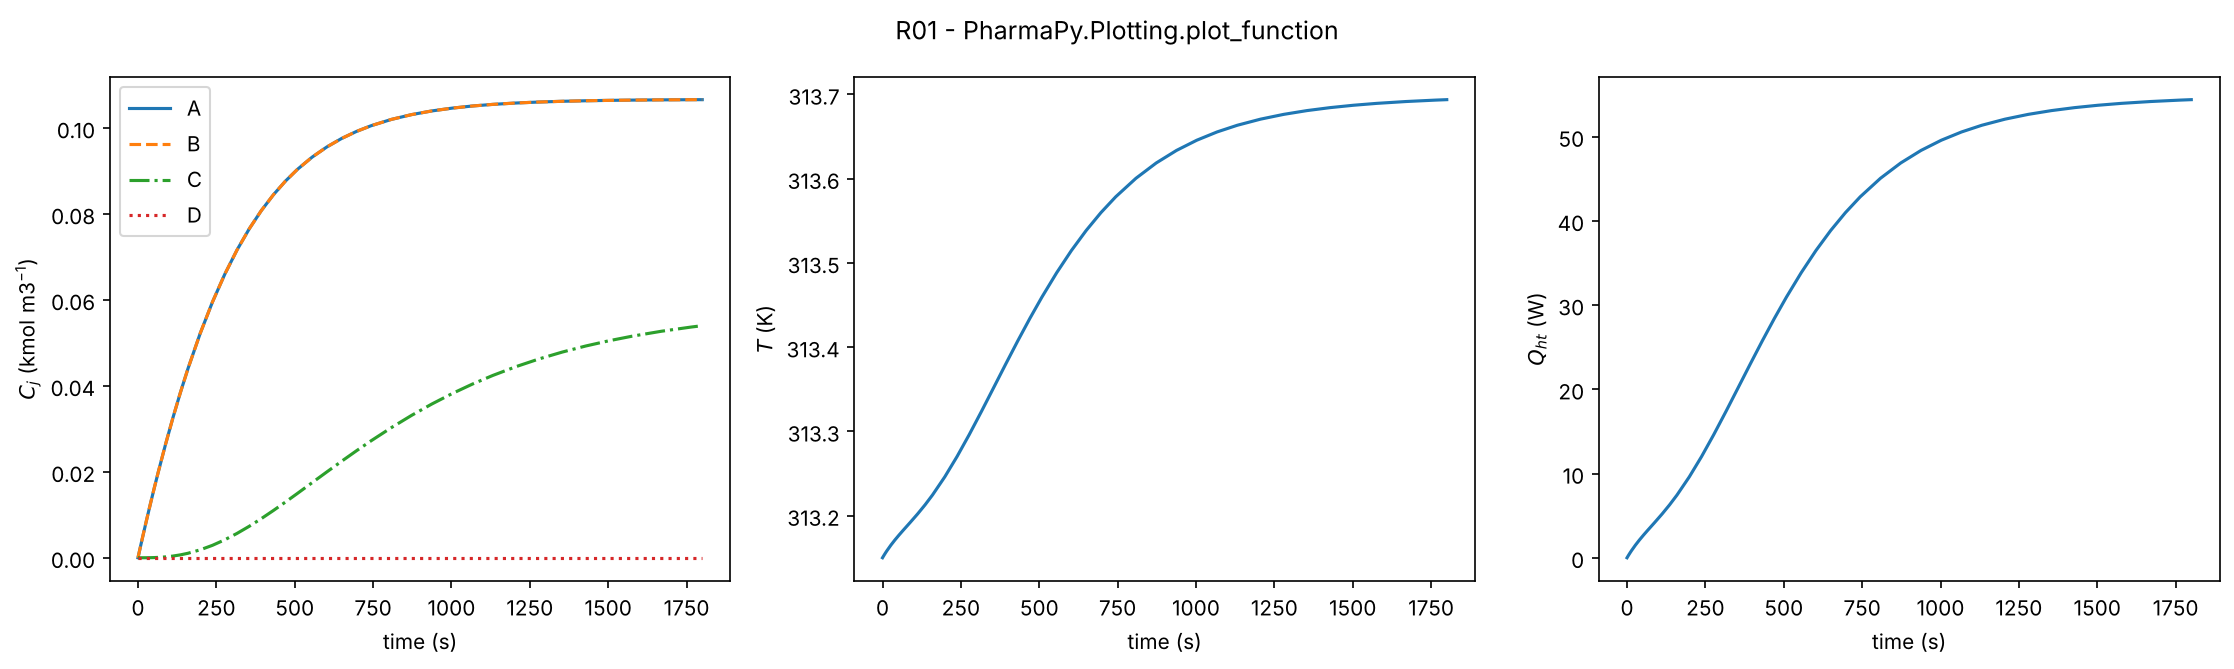
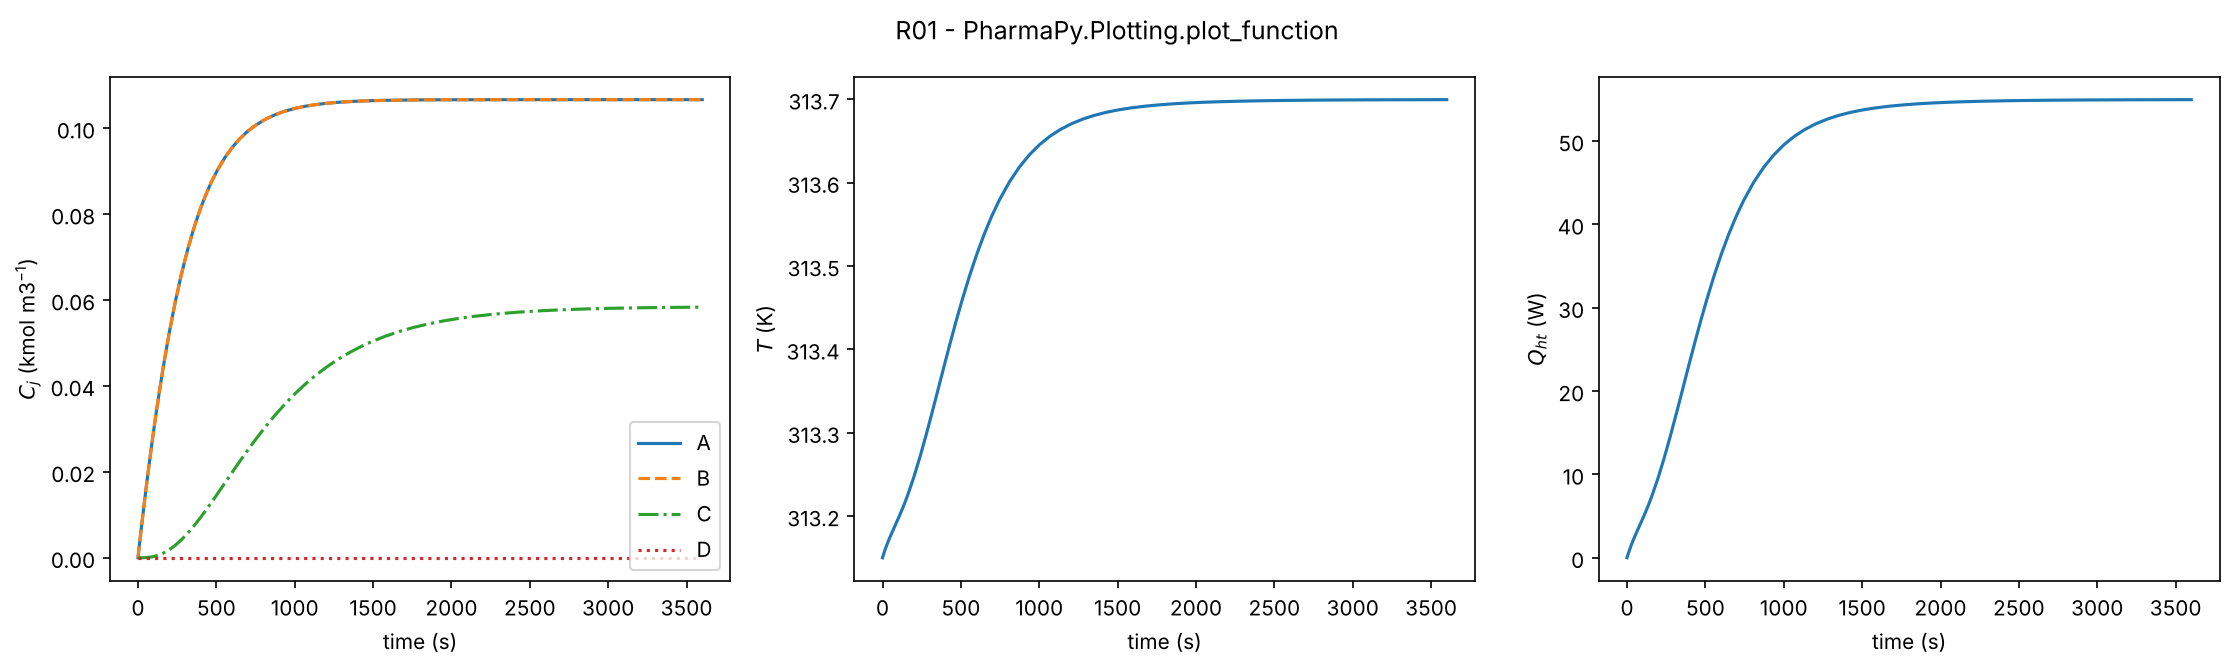
R01: add steady-state mass balance and heat-source plot from PharmaPy terms
- Replay the solved trajectory through the vessel's own material_balances
  and energy_balances (as find_output_states_from_replay does) and record
  the inlet, intraphase, outlet and net species terms plus every energy
  term PharmaPy computes, rather than re-deriving the balances.
- New figures: R01_mass_balance.png (per-feed in, generated, out,
  accumulated at the final time, with a steady-state check) and
  R01_heat_sources.png (reaction, jacket, feed terms and net vs time).
- Raise RUNTIME to 3600 s (7.2 residence times) so the run ends at steady
  state; warn if accumulation exceeds STEADY_STATE_TOL.

Claude-Session: https://claude.ai/code/session_01XVUqsoW5mnv1LanyNmE8qy

diff --git a/Project work/R01.py/R01.py b/Project work/R01.py/R01.py
@@ -26,6 +26,13 @@ Figures are written to ``results/`` next to this file:
     R01_profiles.png   Ca vs time, T vs time, Ca vs T
     R01_native.png     the same run through PharmaPy.Plotting.plot_function
     R01_settings.png   the settings and initial conditions used for the run
+    R01_mass_balance.png  inlet vs outlet species balance at the final time
+    R01_heat_sources.png  energy-balance terms (heat sources) vs time
+
+Both balance figures read PharmaPy's own balance terms rather than
+re-deriving them: the solved trajectory is replayed through the vessel's
+``material_balances`` and ``energy_balances`` (the same calls the integrator
+makes), and each term is recorded as PharmaPy computed it.
 
 The compound database defaults to ``../compound_database.json``; set
 ``PHARMAPY_DATABASE`` to use another one.
@@ -77,11 +84,34 @@ COOLANT_MASS_FLOW = 0.1  # kg/s
 COOLANT_TEMPERATURE = 313.15  # K
 COOLANT_H_CONV = 1000.0  # W/m**2/K, jacket side
 
-RUNTIME = 1800.0  # s
+# 7.2 residence times: long enough that the end of the run is a steady
+# state (accumulation below STEADY_STATE_TOL of the throughput).
+RUNTIME = 3600.0  # s
+STEADY_STATE_TOL = 1.0e-2  # accumulation / inlet mass flow, per species
 
-# Validated categorical slots 1-3 (blue, orange, aqua).
-SERIES_COLORS = ("#2a78d6", "#eb6834", "#1baf7a")
+# Validated categorical slots 1-4 (blue, orange, aqua, yellow).
+SERIES_COLORS = ("#2a78d6", "#eb6834", "#1baf7a", "#eda100")
+TEXT_PRIMARY = "#0b0b0b"
 TEXT_MUTED = "#52514e"
+
+
+class BalanceRecordingReactor(ContinuousReactor):
+    """ContinuousReactor that keeps the energy-balance terms it computes.
+
+    ``MultiPhaseVessel.energy_balances`` collects every heat term into a
+    local ``contributions`` dict, sums it and returns only dT/dt. The
+    shaft-work hook is the last term it adds before summing, so copying the
+    dict there captures every term exactly as PharmaPy computed it. Nothing
+    about the balance itself changes.
+    """
+
+    def add_shaftwork_energy_terms(self, contributions, time,
+                                   completed_state):
+        super().add_shaftwork_energy_terms(contributions, time,
+                                           completed_state)
+        self.energy_contributions = {
+            name: float(value) for name, value in contributions.items()
+        }
 
 
 # ---------------------------------------------------------------- builders
@@ -127,12 +157,12 @@ def make_feed(
 
 def build_reactor(
     database_path: Path | str = DEFAULT_DATABASE_PATH,
-) -> ContinuousReactor:
+) -> BalanceRecordingReactor:
     """Build R01 with both feeds attached as separate inlets."""
     database_path = Path(database_path)
     species_names = database_species(database_path)
 
-    reactor = ContinuousReactor(
+    reactor = BalanceRecordingReactor(
         integrator=ScipyBackend(),
         h_conv=REACTOR_H_CONV,
         diam=REACTOR_DIAMETER,
@@ -172,6 +202,69 @@ def run_reactor(
     reactor = build_reactor(database_path)
     reactor.solve_unit(runtime=runtime, verbose=False)
     return reactor
+
+
+# ---------------------------------------------------------------- balances
+def replay_balances(reactor: BalanceRecordingReactor) -> SimpleNamespace:
+    """Re-evaluate PharmaPy's balances at every saved time point.
+
+    Mirrors ``MultiPhaseVessel.find_output_states_from_replay``: an
+    independent copy of the vessel is set to each accepted solver state and
+    asked for its balances through the same methods the integrator calls,
+    including the positivity limiter. Nothing here re-derives a balance; the
+    terms are read out of PharmaPy's contribution buffer and energy dict.
+
+    Returns
+    -------
+    SimpleNamespace
+        ``time`` [s]; ``feeds`` (time, feed, species) inlet mass flows [kg/s];
+        ``inlet``, ``generation``, ``outlet``, ``accumulation`` (time,
+        species) [kg/s], outlet positive; ``heat`` {term: array} [W].
+    """
+    pseudo = reactor.create_pseudo()
+    collection = reactor.solver_state_collection
+    result = reactor.result
+    history = {
+        key: np.asarray(getattr(result, collection.format_key(key)))
+        for key in collection.states
+    }
+
+    feeds, inlet, generation, outlet, accumulation, heat = ([] for _ in
+                                                            range(6))
+    for i, time in enumerate(np.asarray(result.time)):
+        state = {key: values[i] for key, values in history.items()}
+        completed = pseudo.complete_state(state, time)
+        pseudo.update_phases_from_state(completed)
+
+        rates, buffer = pseudo.material_balances(
+            time, completed, limiter_dt=pseudo.positivity_horizon)
+        pseudo.energy_balances(time, completed, buffer)
+
+        terms = buffer.contributions
+        feeds.append([np.array(transfer.species_flow, dtype=float)
+                      for transfer in buffer.aux[buffer.INLET]])
+        inlet.append(terms[buffer.INLET].copy())
+        generation.append(terms[buffer.INTRAPHASE].copy())
+        outlet.append(-terms[buffer.OUTLET])
+        accumulation.append(np.array(rates, dtype=float))
+        heat.append(pseudo.energy_contributions)
+
+    return SimpleNamespace(
+        time=np.asarray(result.time),
+        feeds=np.array(feeds),
+        inlet=np.array(inlet),
+        generation=np.array(generation),
+        outlet=np.array(outlet),
+        accumulation=np.array(accumulation),
+        heat={name: np.array([h[name] for h in heat]) for name in heat[0]},
+    )
+
+
+def steady_state_gap(balances: SimpleNamespace) -> float:
+    """Largest species accumulation at the final time, relative to the
+    total inlet mass flow."""
+    return float(np.abs(balances.accumulation[-1]).max()
+                 / balances.inlet[-1].sum())
 
 
 # ---------------------------------------------------------------- plotting
@@ -343,13 +436,123 @@ def plot_settings(reactor: ContinuousReactor):
     return fig
 
 
-def save_figures(reactor: ContinuousReactor, out_dir: Path = RESULTS_DIR):
-    """Draw all three figures, save them as PNGs and return them by name."""
+def plot_mass_balance(reactor: ContinuousReactor,
+                      balances: SimpleNamespace):
+    """Inlet vs outlet species balance at the final time, as a table."""
+    import matplotlib.pyplot as plt
+
+    to_g = 1.0e3  # kg/s -> g/s
+    feeds = balances.feeds[-1] * to_g
+    generation = balances.generation[-1] * to_g
+    outlet = balances.outlet[-1] * to_g
+    accumulation = balances.accumulation[-1] * to_g
+    feed_labels = ["Feed A", "Feed B"] + [
+        f"Feed {i + 1}" for i in range(2, len(feeds))]
+
+    def cell(value):
+        return "0" if abs(value) < 5e-7 else f"{value:.4f}"
+
+    columns = (["Species"] + [f"{name} in" for name in feed_labels[:len(feeds)]]
+               + ["Generated", "Out", "Accumulated"])
+    rows = []
+    for j, name in enumerate(reactor.name_species):
+        rows.append([name] + [cell(f[j]) for f in feeds]
+                    + [cell(generation[j]), cell(outlet[j]),
+                       cell(accumulation[j])])
+    rows.append(["Total"] + [cell(f.sum()) for f in feeds]
+                + [cell(generation.sum()), cell(outlet.sum()),
+                   cell(accumulation.sum())])
+
+    total_in = feeds.sum()
+    gap = steady_state_gap(balances)
+    status = ("steady state" if gap < STEADY_STATE_TOL
+              else "NOT yet at steady state")
+
+    fig, ax = plt.subplots(figsize=(10, 0.3 * len(rows) + 1.2))
+    ax.axis("off")
+    table = ax.table(cellText=rows, colLabels=columns, cellLoc="right",
+                     loc="center")
+    table.auto_set_font_size(False)
+    table.set_fontsize(10)
+    table.scale(1, 1.5)
+    for (row, col), cell_obj in table.get_celld().items():
+        cell_obj.set_edgecolor("#e5e4e0")
+        if col == 0:
+            cell_obj.set_text_props(ha="left")
+        if row == 0 or row == len(rows):
+            cell_obj.set_text_props(weight="bold")
+        if row == 0:
+            cell_obj.set_facecolor("#f0efec")
+
+    ax.set_title(
+        f"R01 mass balance at t = {balances.time[-1]:g} s  [g/s]\n"
+        f"in {total_in:.4f} g/s, out {outlet.sum():.4f} g/s; "
+        f"max accumulation {gap * 100:.2g}% of inlet flow ({status})",
+        pad=12)
+    fig.text(0.5, 0.02,
+             "Terms read from PharmaPy's material contribution buffer "
+             "(inlet, intraphase, outlet) and its net species rates.",
+             ha="center", color=TEXT_MUTED, fontsize=9)
+    fig.tight_layout(rect=(0, 0.05, 1, 1))
+    return fig
+
+
+HEAT_TERM_LABELS = {
+    "intraphase": "Reaction (ΔH_rxn)",
+    "utility": "Jacket",
+    "inlet": "Feeds (sensible)",
+    "outlet": "Outlet",
+    "crossphase": "Phase transfer",
+    "mixing": "Mixing",
+    "shaftwork": "Shaft work",
+}
+
+
+def plot_heat_sources(balances: SimpleNamespace):
+    """Each energy-balance term vs time; positive adds heat to the vessel."""
+    import matplotlib.pyplot as plt
+
+    time_min = balances.time / 60.0
+    active = [name for name in HEAT_TERM_LABELS
+              if np.any(np.abs(balances.heat.get(name, 0.0)) > 1e-9)]
+    inactive = [HEAT_TERM_LABELS[name] for name in HEAT_TERM_LABELS
+                if name in balances.heat and name not in active]
+    net = sum(balances.heat[name] for name in balances.heat)
+
+    fig, ax = plt.subplots(figsize=(9, 5))
+    ax.axhline(0.0, color=TEXT_MUTED, lw=0.8)
+    for color, name in zip(SERIES_COLORS, active):
+        ax.plot(time_min, balances.heat[name], color=color, lw=2,
+                label=HEAT_TERM_LABELS[name])
+    ax.plot(time_min, net, color=TEXT_PRIMARY, lw=1.5, ls="--",
+            label="Net (sum)")
+
+    ax.set_xlabel("Time [min]")
+    ax.set_ylabel("Heat rate into vessel [W]")
+    ax.set_title("R01 heat sources from PharmaPy's energy balance")
+    ax.legend(loc="upper right", bbox_to_anchor=(1.0, 0.88), frameon=False)
+    ax.grid(True, color="#e5e4e0", lw=0.8)
+    ax.spines[["top", "right"]].set_visible(False)
+    if inactive:
+        fig.text(0.5, 0.01, "Zero throughout: " + ", ".join(inactive),
+                 ha="center", color=TEXT_MUTED, fontsize=9)
+    fig.tight_layout(rect=(0, 0.03, 1, 1))
+    return fig
+
+
+def save_figures(reactor: BalanceRecordingReactor,
+                 out_dir: Path = RESULTS_DIR,
+                 balances: SimpleNamespace | None = None):
+    """Draw all figures, save them as PNGs and return them by name."""
+    if balances is None:
+        balances = replay_balances(reactor)
     out_dir.mkdir(parents=True, exist_ok=True)
     figures = {
         "R01_profiles": plot_profiles(reactor),
         "R01_native": plot_native(reactor),
         "R01_settings": plot_settings(reactor),
+        "R01_mass_balance": plot_mass_balance(reactor, balances),
+        "R01_heat_sources": plot_heat_sources(balances),
     }
     for name, fig in figures.items():
         fig.savefig(out_dir / f"{name}.png", dpi=150, bbox_inches="tight")
@@ -375,7 +578,25 @@ if __name__ == "__main__":
         print(f"  {name}: {concentration:.6f}")
     print(f"Final temperature: {np.ravel(r01.result.global_temp)[-1]:.3f} K")
 
-    save_figures(r01)
+    balances = replay_balances(r01)
+    print(f"\nMass balance at t = {balances.time[-1]:g} s (g/s):")
+    print(f"  {'species':<8}{'in':>10}{'generated':>11}{'out':>10}"
+          f"{'accum.':>10}")
+    for j, name in enumerate(r01.name_species):
+        print(f"  {name:<8}{balances.inlet[-1][j] * 1e3:>10.4f}"
+              f"{balances.generation[-1][j] * 1e3:>11.4f}"
+              f"{balances.outlet[-1][j] * 1e3:>10.4f}"
+              f"{balances.accumulation[-1][j] * 1e3:>10.4f}")
+    gap = steady_state_gap(balances)
+    if gap >= STEADY_STATE_TOL:
+        print(f"  WARNING: accumulation is {gap:.2%} of the inlet flow; "
+              "increase RUNTIME to reach steady state.")
+
+    print("\nHeat terms at the final time (W):")
+    for name, values in balances.heat.items():
+        print(f"  {HEAT_TERM_LABELS.get(name, name):<20}{values[-1]:>10.3f}")
+
+    save_figures(r01, balances=balances)
     print(f"Figures saved to {RESULTS_DIR}")
 
     if not args.no_show:
